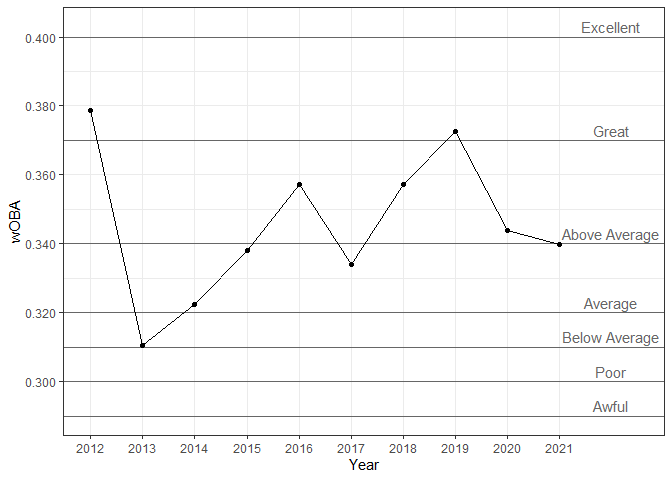
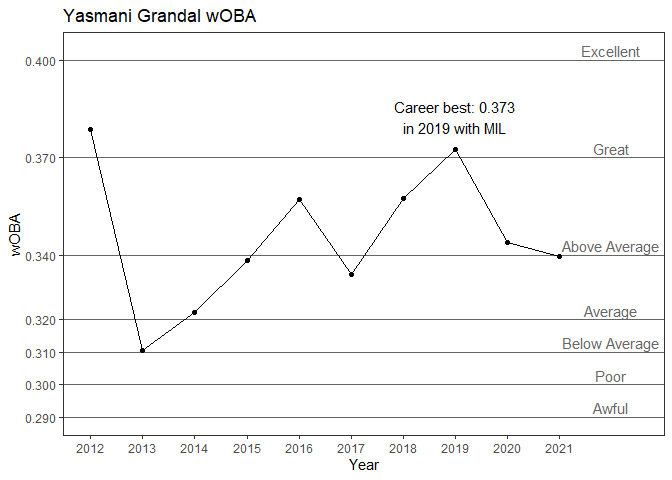
aaaand the component plot

diff --git a/README.md b/README.md
@@ -108,24 +108,25 @@ yasmani_components <- yasmani_stats_prepped %>%
               denom_year = sum(denom_component),
               wOBA_year  = sum(numer_component) / denom_year) %>% 
   mutate(wOBA_component = numer_component / denom_year) %>% 
-  select(all_of(identifier_cols), total, wOBA_component, wOBA_year, numer_component, denom_component, denom_year)
+  select(all_of(identifier_cols), stat, total, 
+         wOBA_component, wOBA_year, numer_component, denom_component, denom_year)
 
 yasmani_components
-#> # A tibble: 80 x 11
-#>     Year   Age Tm    Lg        G total wOBA_component wOBA_year numer_component
-#>    <dbl> <dbl> <chr> <chr> <dbl> <dbl>          <dbl>     <dbl>           <dbl>
-#>  1  2012    23 SDP   NL       60    30        0.092       0.379           20.7 
-#>  2  2012    23 SDP   NL       60     1        0.0032      0.379            0.72
-#>  3  2012    23 SDP   NL       60     2        0           0.379            0   
-#>  4  2012    23 SDP   NL       60   192        0           0.379            0   
-#>  5  2012    23 SDP   NL       60    41        0.162       0.379           36.5 
-#>  6  2012    23 SDP   NL       60     7        0.0395      0.379            8.89
-#>  7  2012    23 SDP   NL       60     1        0.0072      0.379            1.62
-#>  8  2012    23 SDP   NL       60     8        0.0747      0.379           16.8 
-#>  9  2013    24 SDP   NL       28    16        0.104       0.311           11.0 
-#> 10  2013    24 SDP   NL       28     1        0.00679     0.311            0.72
-#> # ... with 70 more rows, and 2 more variables: denom_component <dbl>,
-#> #   denom_year <dbl>
+#> # A tibble: 80 x 12
+#>     Year   Age Tm    Lg        G stat  total wOBA_component wOBA_year
+#>    <dbl> <dbl> <chr> <chr> <dbl> <chr> <dbl>          <dbl>     <dbl>
+#>  1  2012    23 SDP   NL       60 uBB      30        0.092       0.379
+#>  2  2012    23 SDP   NL       60 HBP       1        0.0032      0.379
+#>  3  2012    23 SDP   NL       60 SF        2        0           0.379
+#>  4  2012    23 SDP   NL       60 AB      192        0           0.379
+#>  5  2012    23 SDP   NL       60 1B       41        0.162       0.379
+#>  6  2012    23 SDP   NL       60 2B        7        0.0395      0.379
+#>  7  2012    23 SDP   NL       60 3B        1        0.0072      0.379
+#>  8  2012    23 SDP   NL       60 HR        8        0.0747      0.379
+#>  9  2013    24 SDP   NL       28 uBB      16        0.104       0.311
+#> 10  2013    24 SDP   NL       28 HBP       1        0.00679     0.311
+#> # ... with 70 more rows, and 3 more variables: numer_component <dbl>,
+#> #   denom_component <dbl>, denom_year <dbl>
 ```
 
 # Plotting wOBA components
@@ -157,8 +158,19 @@ wOBA_thresholds <- tribble(
 years <- yasmani_wOBA_only$Year
 comp_color <- "grey40"
 
-yasmani_wOBA_only %>% 
-  ggplot(aes(Year, wOBA)) + 
+# grab a tiny bit of info about his best year
+best_year <- yasmani_wOBA_only %>% 
+  filter(G > 60) %>% 
+  slice_max(wOBA, n = 1) %>% 
+  mutate(wOBA_format = scales::number(wOBA, accuracy = 0.001),
+         by_lab = glue::glue("Career best: {wOBA_format}\nin {Year} with {Tm}"))
+
+wOBA_plot_basics <- ggplot(mapping = aes(x = Year, wOBA)) +
+  scale_x_continuous(breaks = years, minor_breaks = NULL) +
+  theme_bw() +
+  theme(panel.grid = element_blank())
+
+wOBA_plot_basics +
   geom_hline(aes(yintercept = wOBA), 
              data = wOBA_thresholds, 
              color = comp_color) +
@@ -167,16 +179,37 @@ yasmani_wOBA_only %>%
             x = max(years) + 1, 
             nudge_y = 0.003,
             color = comp_color) +
-  geom_line() +
-  geom_point() +
+  geom_line(data = yasmani_wOBA_only) +
+  geom_point(data = yasmani_wOBA_only) +
+  geom_text(aes(label = by_lab), data = best_year, nudge_y = 0.01) +
+  scale_y_continuous("wOBA", breaks = wOBA_thresholds$wOBA,
+                     labels = scales::label_number(accuracy = 0.001)) +
   expand_limits(x = max(years + 1.5)) +
-  scale_x_continuous(breaks = years, minor_breaks = NULL) +
-  scale_y_continuous(breaks = seq(0, 1, 0.02),
-                     labels = scales::label_number()) +
-  theme_bw()
+  ggtitle("Yasmani Grandal wOBA")
 ```
 
 ![](README_files/figure-gfm/wOBA%20plot-1.png)<!-- -->
 
 Then a first attempt to plot the impact that each hitting outcome had
 each year.
+
+``` r
+# only want the stats that positively contribute to wOBA, make it a factor
+yasmani_components_forplot <- yasmani_components %>% 
+  semi_join(filter(wOBA_numer_weights, numer_weight > 0), by = "stat") %>% 
+  mutate(stat_ord = fct_relevel(stat, "uBB", "HBP", "1B", "2B", "3B", "HR")) %>% 
+  rename(wOBA = wOBA_component)
+
+colors <- c("#7570b3", "#d95f02", "#ffffcc", "#a1dab4", "#41b6c4", "#225ea8")
+
+wOBA_plot_basics +
+  geom_bar(aes(fill = stat_ord),
+           data = yasmani_components_forplot,
+           stat = "identity", position = "stack") +
+  scale_y_continuous("wOBA", breaks = seq(0, 0.6, by = 0.05),
+                     labels = scales::label_number(accuracy = 0.001)) +
+  scale_fill_manual("Component", values = colors) +
+  ggtitle("Yasmani Grandal wOBA Components")
+```
+
+![](README_files/figure-gfm/components%20plot-1.png)<!-- -->
